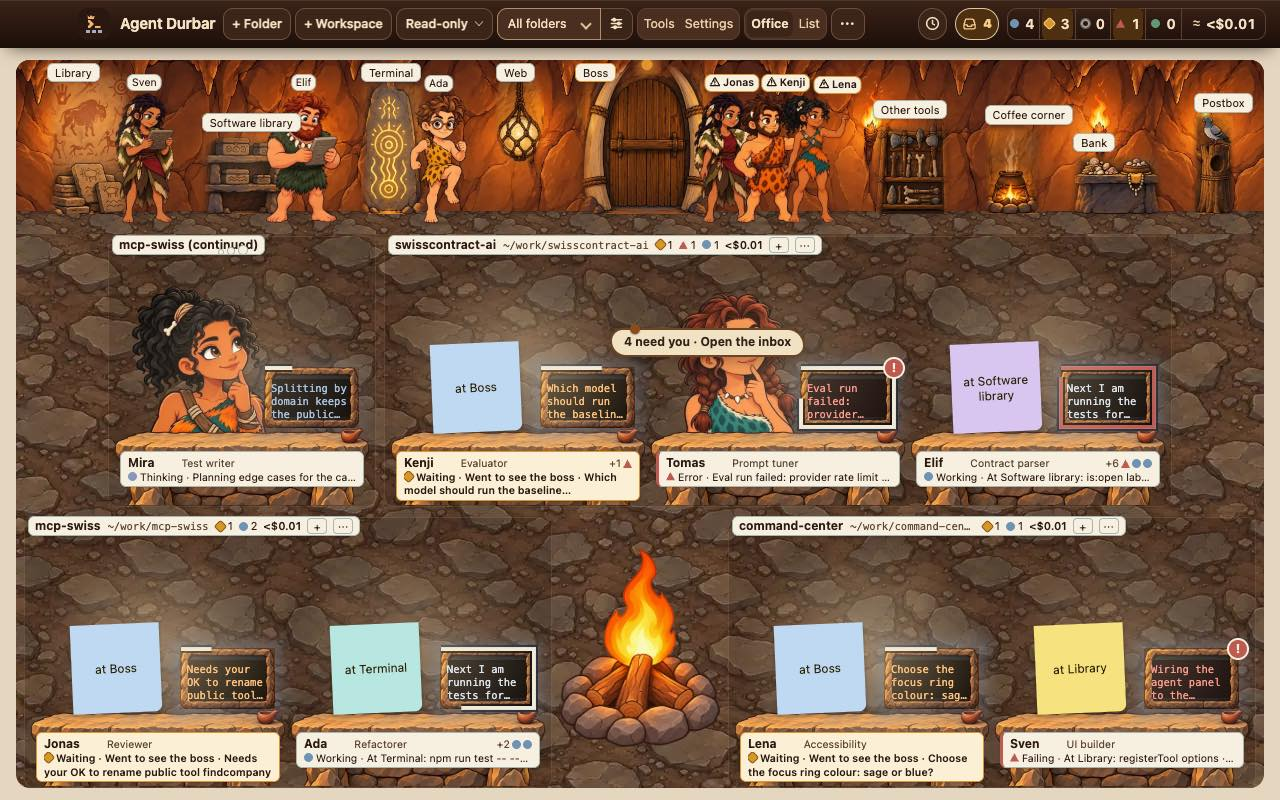
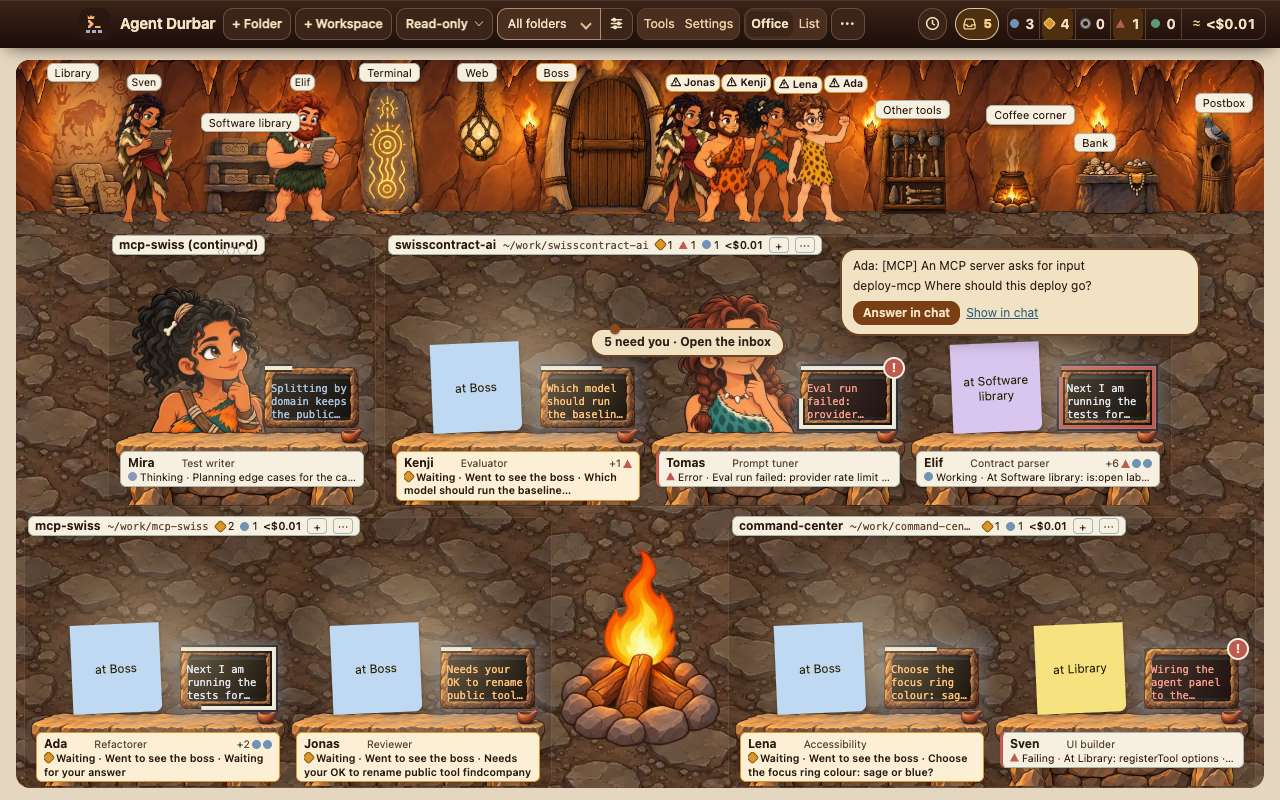
Cave circle: rooms sized from the folder's agents so a status change moves no seat; the focus check's original fixture restored; same-slots test and mutants; per-machine sign margin; signreach asserts the arrangement (T174, review findings on #1764)

diff --git a/scripts/test-realoffice-circle.ts b/scripts/test-realoffice-circle.ts
@@ -4,6 +4,7 @@ import * as assert from 'assert';
 import * as fs from 'fs';
 import * as path from 'path';
 import { realLayout, signMin, signShortMin, sortDesks, splitLounge, type RealMeta, type RealModel, type RealAgent, type RealState, type Rect, type Layout } from '../src/shared/realoffice-layout';
+import { CHIP_KINDS } from '../src/shared/realoffice-layout';
 import { ARRANGEMENTS, FACE_FLOOR, arrangementFits, circleLayout, circleWith, layoutFor, layoutWithFallback, isArrangement, monitorProblem, CIRCLE_FOCUS_MIN } from '../src/shared/realoffice-arrangements';
 
 process.exitCode = 1;
@@ -76,9 +77,9 @@ for (const [W, H] of SIZES) for (const f of [1, 4, 15]) for (const lounge of [0,
   cases++;
 }
 // ---- 15 agents fit both rooms with no scroll, at 24 px or more, in 1..13 folders; 14 and 15 folders [KNOWN GAP] (FR-229): pinned, so a change shows ----
-const GAP = [[12, 13, 14, 15], [10, 11, 12, 13, 14, 15]]; /* the folder counts that scroll at 24.0 px with every sign three counts wide (SIGNS): 1440x900, 1280x800 (spec 102 FR-231: a room is as wide as its sign's short form; with one count each it is [15] and [14, 15], as before) */
+const GAP = [[15], [14, 15]]; /* the folder counts that scroll at 24.0 px: 1440x900, 1280x800 (spec 102 Changes 2026-11-14) */
 ROOMS.forEach((s) => { for (let f = 1; f <= 15; f++) assert.strictEqual(mk(15, f, SIZES[s][0], SIZES[s][1]).scroll, GAP[s].includes(f), `15 agents in ${f} folders at ${NAMES[s]}: scroll must be ${GAP[s].includes(f)} (the known gap lists ${GAP[s]})`); });
-for (const s of ROOMS) for (let f = 1; f <= 15 - GAP[s].length; f++) {
+for (const s of ROOMS) for (let f = 1; f <= 13; f++) {
   const [W, H] = SIZES[s], L = mk(15, f, W, H);
   assert.ok(!L.scroll, `15 agents fit ${NAMES[s]} (${f} folders): no scroll`);
   assert.ok(L.faceH >= FACE_FLOOR, `15 agents at ${NAMES[s]}: face ${L.faceH} px, floor ${FACE_FLOOR}`);
@@ -148,47 +149,69 @@ function circleOffenders(manifests: Array<{ file: string; text: string }>): stri
   assert.ok(!names('{"arrangement":"rows"}') && !names('{}'), 'rows and no key are not circle');
   assert.throws(() => names('{"arrangement": circle}', 'worlds/x/world.json'), /worlds\/x\/world\.json is not valid JSON/, 'a manifest that does not parse fails by its path');
 }
-// ---- FR-231 (reviewer's finding on #1764): a sign in the circle is never narrower than its short form (`signShortMin`), and it lies inside its room. Labels: signw, signin, signshort. ----
-const signProblems = (L: Layout, counts: number): string[] => {
+// ---- FR-231 (reviewer's finding on #1764): a sign in the circle is never narrower than its short form for the most chips its folder can show, and it lies inside its room. Labels: signw, signin, signshort. ----
+/** the chips a folder can ever show: one per agent, at most CHIP_KINDS; `counts` is what the sign shows now (chips and cost), never more than that */
+const needOf = (m: RealModel, id: string, counts: number): number => signShortMin(Math.min(counts, (m.folders.find((f) => f.id === id) || { agents: [] }).agents.length, CHIP_KINDS));
+const signProblems = (L: Layout, m: RealModel, counts: number): string[] => {
   const out = new Set<string>();
   for (const z of L.zones) {
-    if (z.sign.w < signShortMin(counts) - 0.01) out.add('signw'); /* narrower than the least that keeps + and the menu inside it */
+    if (z.sign.w < needOf(m, z.id, counts) - 0.01) out.add('signw'); /* narrower than the least that keeps + and the menu inside it */
+    if (z.box.w - 8 < signShortMin(Math.min(CHIP_KINDS, (m.folders.find((f) => f.id === z.id) || { agents: [] }).agents.length)) - 0.01) out.add('signroom'); /* the room is smaller than the worst case the folder can have */
     if (!inside(z.sign, { x: z.box.x, y: z.box.y - 2, w: z.box.w, h: z.box.h + 2 })) out.add('signin'); /* the sign sticks out of its room: a neighbour or the focus box could cover it */
     if ((z.box.w - 8 >= signMin(counts)) === !!z.signShort) out.add('signshort'); /* the whole sign where its room holds signMin, the short form only where it does not */
   }
   return [...out];
 };
+const META_CAVE = { ...readJson('worlds', 'cave', 'world.json'), ...readJson('sets', 'prehistoric', 'set.json') } as unknown as RealMeta;
+const signsOf = (f: number, counts: number, chips?: number): Record<string, { name: string; path: string; counts: number; chips?: number }> => Object.fromEntries(Array.from({ length: f }, (_, i) => ['f' + i, { name: 'project-' + i, path: '~/work/long/path/to/project-' + i, counts, ...(chips === undefined ? {} : { chips }) }]));
 {
-  const META_CAVE = { ...readJson('worlds', 'cave', 'world.json'), ...readJson('sets', 'prehistoric', 'set.json') } as unknown as RealMeta;
   let n = 0;
-  for (const [wn, meta] of [['Photo', META], ['Cave', META_CAVE]] as Array<[string, RealMeta]>) for (const [W, H] of SIZES.slice(0, 2)) for (const agents of [4, 8, 15]) for (const f of [1, 2, 3, 4, 5, 6, 8, 9, 10, 11, 12, 13, 14, 15]) for (const counts of [1, 2, 3]) {
+  for (const [wn, meta] of [['Photo', META], ['Cave', META_CAVE]] as Array<[string, RealMeta]>) for (const [W, H] of SIZES.slice(0, 2)) for (const agents of [4, 8, 15]) for (const f of [1, 2, 3, 4, 5, 6, 8, 9, 10, 11, 12, 13, 14, 15]) for (const counts of [1, 2, 3, 6]) {
     if (f > agents) continue;
-    const m = model(agents, f), sg = Object.fromEntries(Array.from({ length: f }, (_, i) => ['f' + i, { name: 'project-' + i, path: '~/work/long/path/to/project-' + i, counts }]));
-    const L = circleLayout(m, { w: W, h: H }, meta, sg), r = layoutWithFallback('circle', m, { w: W, h: H }, meta, sg);
-    if (r.ran === 'circle') { assert.deepStrictEqual(signProblems(r.lay, counts), [], `${wn} ${agents} agents in ${f} folders, ${counts} counts at ${W}x${H}: every sign holds its short form and lies in its room`); n++; }
-    else assert.ok(L.scroll || !arrangementFits('circle', m, { w: W, h: H }, meta, undefined, sg), `${wn} ${agents} in ${f}, ${counts} counts at ${W}x${H}: rows only where the circle cannot hold its signs`);
-    assert.strictEqual(r.ran === 'circle', !L.scroll, `${wn} ${agents} in ${f}, ${counts} counts at ${W}x${H}: the ladder keeps the circle exactly where it does not scroll`);
+    const m = model(agents, f), r = layoutWithFallback('circle', m, { w: W, h: H }, meta, signsOf(f, counts));
+    if (r.ran === 'circle') { assert.deepStrictEqual(signProblems(r.lay, m, counts), [], `${wn} ${agents} agents in ${f} folders, ${counts} counts at ${W}x${H}: every sign holds its short form and lies in a room made for it`); n++; }
+    assert.strictEqual(r.ran === 'circle', !circleLayout(m, { w: W, h: H }, meta, signsOf(f, counts)).scroll, `${wn} ${agents} in ${f}, ${counts} counts at ${W}x${H}: the ladder keeps the circle exactly where it does not scroll`);
   }
   assert.ok(n > 50, `the sign check ran on ${n} circle layouts`);
-  const m = model(15, 9), sg = SIGNS(9), L = circleLayout(m, { w: 1440, h: 797 }, META_CAVE, sg);
-  assert.deepStrictEqual(signProblems(L, 3), [], 'the layout the sign mutants damage is clean');
-  const kill = (label: string, mut: (x: Layout) => void): void => { const x = clone(L); mut(x); assert.ok(signProblems(x, 3).includes(label), `sign mutant not killed at label "${label}"`); };
+  const m = model(15, 9), L = circleLayout(m, { w: 1440, h: 797 }, META_CAVE, signsOf(9, 3));
+  assert.deepStrictEqual(signProblems(L, m, 3), [], 'the layout the sign mutants damage is clean');
+  const kill = (label: string, mut: (x: Layout) => void): void => { const x = clone(L); mut(x); assert.ok(signProblems(x, m, 3).includes(label), `sign mutant not killed at label "${label}"`); };
   kill('signw', (x) => { x.zones[1].sign.w = 118; }); /* the 118 px sign of the review: its + and menu fall outside it */
+  kill('signroom', (x) => { x.zones[1].box.w = 100; x.zones[1].sign.w = 92; }); /* a room as wide as one desk, the cause */
   kill('signin', (x) => { x.zones[1].sign.x = x.zones[1].box.x + x.zones[1].box.w - 20; });
   kill('signshort', (x) => { x.zones[1].signShort = !x.zones[1].signShort; });
-  // `chips`: the count chips alone (the short form hides the cost), so a sign with a cost needs one chip less room than its `counts` say; the rooms follow `chips` where it is given
-  {
-    const view = { w: 1280, h: 697 };
-    const withChips = (f: number, chips?: number) => Object.fromEntries(Array.from({ length: f }, (_, i) => ['f' + i, { name: 'project-' + i, path: '~/work/long/path/to/project-' + i, counts: 3, ...(chips === undefined ? {} : { chips }) }]));
-    const edge = (chips?: number): number => { let f = 1; while (f <= 15 && !circleLayout(model(15, f), view, META_CAVE, withChips(f, chips)).scroll) f++; return f; };
-    assert.ok(edge(2) > edge(), `chips 2 of counts 3 (a cost): the circle holds more folders (${edge(2)} against ${edge()}) at 1280x800`);
-    const L2 = circleLayout(model(15, 4), view, META_CAVE, withChips(4, 2));
-    assert.deepStrictEqual(signProblems(L2, 2), [], 'with chips 2 every sign holds the short form of two chips');
+  console.log(`circle signs checked on ${n} circle layouts`);
+}
+// ---- 097 FR-015, 102 FR-230: a status change moves no seat. The same agents in any state (so any chips and cost on the signs) give the same slots, rooms, `u` and arrangement. Labels: moved. ----
+const layoutKey = (L: Layout, ran: string): string => JSON.stringify({ ran, u: L.u, scroll: L.scroll, z: L.zones.map((z) => [z.id, z.part, z.box, z.desks.map((d) => d.slot)]), focus: L.focus || null });
+const STATE_SETS: RealState[][] = [['working'], ['thinking', 'waiting'], ['error', 'limit', 'done', 'idle', 'asleep'], STATES];
+const movedBy = (meta: RealMeta, W: number, H: number, agents: number, f: number, opt?: { liveChips: boolean }): string[] => {
+  const keys = new Set<string>();
+  STATE_SETS.forEach((set, k) => {
+    const m = model(agents, f);
+    m.folders.forEach((fo) => fo.agents.forEach((a, i) => { if (!a.lounge) a.state = set[(i + k) % set.length]; }));
+    const chips = Math.min(set.length, 5), counts = chips + (k % 2); /* what the signs would show for this set: the chips, and a cost on every other set */
+    const sg = signsOf(f, counts, chips), v = { w: W, h: H };
+    const L = opt ? circleWith(m, v, meta, sg, opt) : circleLayout(m, v, meta, sg), ran = opt ? (L.scroll ? 'rows' : 'circle') : layoutWithFallback('circle', m, v, meta, sg).ran;
+    keys.add(layoutKey(L, ran));
+  });
+  return keys.size > 1 ? ['moved'] : [];
+};
+{
+  let n = 0, mutantMoved = 0;
+  for (const [, meta] of [['Photo', META], ['Cave', META_CAVE]] as Array<[string, RealMeta]>) for (const [W, H] of SIZES.slice(0, 2)) for (const agents of [4, 8, 15, 20]) for (const f of [1, 2, 3, 4, 5, 8, 12, 15]) {
+    if (f > agents) continue;
+    assert.deepStrictEqual(movedBy(meta, W, H, agents, f), [], `${agents} agents in ${f} folders at ${W}x${H}: a status change moves no seat, room, u or arrangement`);
+    n++;
+    if (movedBy(meta, W, H, agents, f, { liveChips: true }).length) mutantMoved++;
   }
-  // the cause (mutant of the engine): zones as wide as their desks only, the circle before FR-231, cuts a sign below its short form
-  const sw = (x: Layout): number => Math.min(...x.zones.map((z) => z.sign.w));
-  assert.ok(sw(L) >= signShortMin(3), 'with the rooms the smallest sign is whole');
-  console.log(`circle signs: smallest sign ${sw(L).toFixed(0)} px at 15 agents in 9 folders at 1440x900 (short form needs ${signShortMin(3)} px)`);
+  assert.ok(mutantMoved > 0, `mutant (rooms from the live chips) is caught by the moved label in ${mutantMoved} of ${n} cases`);
+  console.log(`status changes: no seat moves in ${n} cases; the live-chips mutant moves seats in ${mutantMoved}`);
+}
+// ---- the simulator's 15-agent frame (4, 4, 3, 2 and 2 agents in five folders, two of them in the lounge row): the Cave draws the circle at 1440x900 and ROWS at 1280x800, with every sign at one chip too: the folders' rooms (4, 4, 3, 2 and 2 chips at most) leave the ring no room at the 24 px face floor there (reviewer, #1764) ----
+{
+  const sim = (): RealModel => { let i = 0; const fo = [[4, [0]], [4, []], [3, []], [2, []], [2, [1]]].map(([c, lg], k) => ({ id: 'f' + k, agents: Array.from({ length: c as number }, (_, j) => { const lounge = (lg as number[]).includes(j), a: RealAgent = { id: 'a' + i, state: lounge ? 'idle' : STATES[i % STATES.length], person: PEOPLE[i % 15], away: null, ...(lounge ? { lounge: true } : {}) }; i++; return a; }) })); return { folders: fo, places: model(15, 5).places }; };
+  for (const [W, H, want] of [[1440, 797, 'circle'], [1280, 697, 'rows']] as Array<[number, number, string]>) for (const counts of [1, 2, 5]) assert.strictEqual(layoutWithFallback('circle', sim(), { w: W, h: H }, META_CAVE, signsOf(5, counts)).ran, want, `the simulator's 15-agent frame in the Cave at ${W}x${H}, ${counts} counts: ${want}`);
 }
 // ---- the ladder circle -> rows (FR-230, owner 2026-11-14 13:10 UTC): 15 agents in 14 and in 15 one-agent folders fall back to rows, no scroll, nothing off the stage ----
 {
@@ -205,27 +228,24 @@ const signProblems = (L: Layout, counts: number): string[] => {
   };
   const seen: string[] = [];
   for (const [name, meta] of [['Photo meta', META], ['Cave meta', META_CAVE]] as Array<[string, RealMeta]>) SIZES.slice(0, 2).forEach(([W, H], s) => {
-    for (const f of [1, 4, 8, 9, 10, 11, 12, 13, 14, 15]) {
-      const m = model(15, f), v = { w: W, h: H }, fits = arrangementFits('circle', m, v, meta, undefined, SIGNS(f));
+    for (const f of [1, 4, 8, 12, 13, 14, 15]) {
+      const m = model(15, f), v = { w: W, h: H }, fits = arrangementFits('circle', m, v, meta);
       const r = layoutWithFallback('circle', m, v, meta, SIGNS(f));
       assert.deepStrictEqual(ladder(r, W, fits), [], `${name} ${NAMES[s]}, 15 agents in ${f} folders: ladder ${fits ? 'keeps circle' : 'falls back to rows'}, no scroll, nothing off the stage`);
       assert.strictEqual(fits, !circleLayout(m, v, meta, SIGNS(f)).scroll, `${name} ${NAMES[s]} ${f} folders: fits means the circle does not scroll`);
-      if (f >= 9) seen.push(`${name} ${NAMES[s]} ${f}: ${r.ran}`);
+      if (f >= 14) seen.push(`${name} ${NAMES[s]} ${f}: ${r.ran}`);
       if (!fits) {
         assert.ok(ladder({ lay: circleLayout(m, v, meta, SIGNS(f)), ran: 'circle' }, W, fits).includes('scroll'), `mutant (ladder removed): the circle's scroll is caught at ${name} ${NAMES[s]} ${f} folders`);
         assert.ok(ladder({ lay: realLayout(m, v, meta, SIGNS(f)), ran: 'circle' }, W, fits).includes('ran'), `mutant (circle forced): caught by its ran label at ${name} ${NAMES[s]} ${f} folders`);
       } else assert.ok(ladder({ lay: realLayout(m, v, meta, SIGNS(f)), ran: 'rows' }, W, fits).includes('ran'), `mutant (rows always): caught by its ran label at ${name} ${NAMES[s]} ${f} folders`);
     }
   });
-  const want: string[] = [];
-  for (const [name, edge] of [['Photo meta', [12, 10]], ['Cave meta', [14, 10]]] as Array<[string, number[]]>) edge.forEach((e, s) => { for (let f = 9; f <= 15; f++) want.push(`${name} ${NAMES[s]} ${f}: ${f >= e ? 'rows' : 'circle'}`); });
-  for (const w of want) assert.ok(seen.includes(w), `the measured edge (FR-231, every sign three counts wide): ${w}`); /* the signs' rooms move the edge: Photo's meta from 15 folders to 12 (1440x900), the Cave's from 15 to 14; both from 14 to 10 at 1280x800 */
-  assert.strictEqual(seen.length, want.length, 'no other folder count was measured');
-  console.log('ladder at 9..15 folders (every sign three counts wide): ' + seen.join('; '));
+  for (const want of ['Photo meta 1440x900 15: rows', 'Photo meta 1440x900 14: circle', 'Cave meta 1280x800 14: rows', 'Cave meta 1280x800 15: rows', 'Cave meta 1440x900 14: circle', 'Cave meta 1440x900 15: circle']) assert.ok(seen.includes(want), `the measured edge: ${want}`); /* Photo's meta scrolls at 15 folders at 1440x900, the Cave's does not (its desk is smaller); both fall back at 14 and 15 at 1280x800 */
+  console.log('ladder at 14 and 15 folders: ' + seen.join('; '));
   // the hold: back only with two agents fewer than it left at
-  const m15 = model(15, 14), m14 = model(14, 4), m13 = model(13, 4), v = { w: 1280, h: 697 };
-  assert.strictEqual(layoutWithFallback('circle', m13, v, META_CAVE, SIGNS(4), 15).ran, 'circle', 'left at 15, back at 13: two fewer');
-  assert.strictEqual(layoutWithFallback('circle', m14, v, META_CAVE, SIGNS(4), 15).ran, 'rows', 'left at 15, still rows at 14: one fewer is not enough');
+  const m15 = model(15, 14), m14 = model(14, 14), m13 = model(13, 13), v = { w: 1280, h: 697 };
+  assert.strictEqual(layoutWithFallback('circle', m13, v, META_CAVE, SIGNS(13), 15).ran, 'circle', 'left at 15, back at 13: two fewer');
+  assert.strictEqual(layoutWithFallback('circle', m14, v, META_CAVE, SIGNS(14), 15).ran, 'rows', 'left at 15, still rows at 14: one fewer is not enough');
   assert.strictEqual(layoutWithFallback('circle', m15, v, META_CAVE, SIGNS(15), undefined).ran, 'rows', 'no hold: 15 agents in 14 folders is rows');
   assert.strictEqual(JSON.stringify(layoutWithFallback('rows', m15, v, META_CAVE, SIGNS(14)).lay), JSON.stringify(realLayout(m15, v, META_CAVE, SIGNS(14))), 'rows is untouched by the ladder');
 }

diff --git a/scripts/check-102-focus.js b/scripts/check-102-focus.js
@@ -4,7 +4,7 @@
  *   npm run build
  *   OUT=/tmp DURBAR_USER_DATA=$(mktemp -d) DURBAR_SIM=15 DURBAR_SIM_FREEZE=1 DURBAR_DRIVER=$PWD/scripts/check-102-focus.js xvfb-run -a npx electron . --no-sandbox
  *
- * The fixture lives in the page only: the Photo office's numbers with `arrangement: "circle"` set after load (the Cave names circle and draws it from the start, so the page's fallback hold would carry a first frame's fall to rows into the check; spec 102 Changes 2026-11-15), and a plain
+ * 1280x800 takes 12 agents (15 agents are rows there, with no box, asserted last). The fixture lives in the page only: the Photo office's numbers with `arrangement: "circle"` set after load (no shipped world names circle yet; T174), and a plain
  * colour for a picture. At 15 agents, 1440x900 and 1280x800, asserted: with `rows` there is no .ro-focus (T167); with `circle` exactly one, aria-hidden, no tabindex,
  * no text, no pointer events, nothing tabbable inside it, inside the room, clear of every folder zone and sign; a picture that fails to load moves no desk; a layout
  * with no focus box (page-only: the engine's result without `focus`) renders without a throw, draws no .ro-focus and moves nothing; back to
@@ -25,21 +25,19 @@ module.exports = async (ctx) => {
       aria:f[0]?f[0].getAttribute('aria-hidden'):null,tab:f[0]?f[0].hasAttribute('tabindex'):null,text:f[0]?f[0].textContent:null,
       pe:f[0]?getComputedStyle(f[0]).pointerEvents:null,inner:f[0]?f[0].querySelectorAll('a,button,input,[tabindex]').length:null}})()`;
   const hit = (a, b) => a.x + 0.5 < b.x + b.w && b.x + 0.5 < a.x + a.w && a.y + 0.5 < b.y + b.h && b.y + 0.5 < a.y + a.h;
-  for (const [w, h] of [[1440, 900], [1280, 800]]) {
+  /* 1280x800 takes 12 agents: with 15 the circle needs more room than the floor has at the face floor (the simulator's 15-agent frame is rows there, spec 102 Changes 2026-11-15), so the ladder draws rows and no box; that case is asserted after the loop */
+  for (const [w, h, N] of [[1440, 900, 15], [1280, 800, 10]]) {
     const tag = `focus ${w}x${h}`;
-    await H.load({ w, h, ready: 'fit', focus: true, query: { officeview: 'real' } });
+    await H.load({ w, h, ready: 'fit', focus: true, query: { officeview: 'real', sim: String(N) } });
     const ids = await js(`window.__durbarSimUi.agents().filter(a=>!a.parent).map(a=>a.id)`);
-    assert.strictEqual(ids.length, 15, `${tag}: 15 main agents`);
-    /* a redraw changes no agent state, so no sign's counts: a status poke would add a state chip and, with it, change the room each sign needs (spec 102 Changes 2026-11-15) */
-    const redraw = async () => { await js(`window.__durbarSimUi.crew.renderAll();0`); };
-    /* one state for every agent, so each folder shows one count chip and every sign needs the least room: the circle sits at the face floor at 1280x800, and a sign with three or four chips takes the room it needs, which can make it draw rows (spec 102 Changes 2026-11-15); this check is about the focus box, so it holds the state still */
-    await js(`window.__durbarSimUi.agents().filter(a=>!a.parent).forEach(a=>{a.state='working'});window.__durbarSimUi.crew.renderAll();0`);
+    assert.strictEqual(ids.length, N, `${tag}: ${N} main agents`);
     const rows = await js(READ);
     assert.strictEqual(rows.world, 'photo', `${tag}: the fixture is the Photo world's numbers`);
     assert.strictEqual(rows.n, 0, `${tag}: with rows no .ro-focus is drawn (T167)`);
     // the fixture: circle, set in the page only, and drawn at the next status change
     await js(`(()=>{window.DurbarRealOfficeWorlds.photo.arrangement='circle';const s=document.createElement('style');s.id='fixFocus';s.textContent='.ro[data-world="photo"] .ro-focus{background-color:#b5651d}';document.head.appendChild(s);return 0})()`);
-    await redraw();
+    const poke = async (id, status) => { await js(`window.__durbarSimEmit({type:'status',sessionId:${jsLiteral(id)},timestamp:Date.now(),status:${jsLiteral(status)},intent:'x'});0`); };
+    await poke(ids[0], 'error'); await poke(ids[0], 'idle');
     assert.ok(await until(`document.querySelectorAll('#stage .ro-focus').length===1`, 8000), `${tag}: with circle one .ro-focus is drawn`);
     await settle();
     const c = await js(READ);
@@ -53,22 +51,17 @@ module.exports = async (ctx) => {
     assert.ok(c.box.x >= c.room.x - 1 && c.box.y >= c.room.y - 1 && c.box.x + c.box.w <= c.room.x + c.room.w + 1 && c.box.y + c.box.h <= c.room.y + c.room.h + 1, `${tag}: the focus box is inside the room`);
     const clash = c.zones.filter((z) => hit(c.box, z));
     assert.strictEqual(clash.length, 0, `${tag}: the focus box is clear of every zone and sign: ` + JSON.stringify(clash[0]));
-    assert.strictEqual(c.dr.length, 15, `${tag}: 15 plates are drawn`);
+    assert.strictEqual(c.dr.length, N, `${tag}: ${N} plates are drawn`);
     const cx = c.dr.map((d) => ({ x: d.x + d.w / 2, y: d.y + d.h / 2 })), b = c.box;
     assert.ok(cx.some((p) => p.x < b.x) && cx.some((p) => p.x > b.x + b.w) && cx.some((p) => p.y < b.y), `${tag}: the ring stands round the box: desks on its left, its right and above it`);
     // a picture that loads, and the same box with a picture that fails: every plate, zone, sign and the box itself is where it was (nothing in the layout reads the picture)
[1 lines of base64/hex data omitted]
     const setPic = (url) => js(`(()=>{document.getElementById('fixFocus').textContent='.ro[data-world="photo"] .ro-focus{background-image:url(${jsLiteral(url).slice(1, -1)})}';return new Promise(res=>{const i=new Image();i.onload=i.onerror=()=>res(1);i.src=${jsLiteral(url)}})})()`);
-    /* what the layout reads besides the picture: every agent's state and each sign's counts (a sign's room is as wide as its counts need: spec 102 Changes 2026-11-15), so two frames are only comparable when these are equal */
-    const INPUTS = `JSON.stringify({states:window.__durbarSimUi.agents().filter(a=>!a.parent).map(a=>a.state).join(','),signs:[...document.querySelectorAll('#stage .ro-sign')].map(g=>g.textContent.trim())})`;
-    const frame = async () => { await redraw(); await settle(); const r = await js(READ); return JSON.stringify({ dr: r.dr, zones: r.zones, box: r.box, desks: r.desks, inputs: await js(INPUTS) }); };
-    const inputsOf = (f) => JSON.parse(f).inputs;
-    assert.notStrictEqual(inputsOf(JSON.stringify({ inputs: '{"states":"a,b"}' })), inputsOf(JSON.stringify({ inputs: '{"states":"a,c"}' })), 'mutant: frames with different agent states have different inputs');
+    const frame = async (id) => { await poke(id, 'error'); await poke(id, 'idle'); await settle(); const r = await js(READ); return JSON.stringify({ dr: r.dr, zones: r.zones, box: r.box, desks: r.desks }); };
     await setPic(PIC);
-    const loaded = await frame();
+    const loaded = await frame(ids[2]);
     await setPic('realoffice/worlds/photo/no-such-focus.webp');
-    const failed = await frame();
-    assert.strictEqual(inputsOf(failed), inputsOf(loaded), `${tag}: the two frames read the same agent states and sign counts (what the layout depends on besides the picture)`);
+    const failed = await frame(ids[2]);
     assert.strictEqual(failed, loaded, `${tag}: a picture that fails to load moves no plate, zone, sign or the box itself`);
     assert.strictEqual((await js(READ)).n, 1, `${tag}: the box stays when its picture fails`);
     await js(`(()=>{document.getElementById('fixFocus').textContent='.ro[data-world="photo"] .ro-focus{background-color:#b5651d}';return 0})()`);
@@ -77,22 +70,33 @@ module.exports = async (ctx) => {
     // the render runs without a throw, draws no .ro-focus and moves no plate, zone or sign against the same layout with the box
     await js(`(()=>{const E=window.exports,f=window.__fixLF||E.layoutFor,g=window.__fixLW||E.layoutWithFallback;window.__fixLF=f;window.__fixLW=g;E.layoutFor=function(){const l=f.apply(this,arguments);delete l.focus;return l};E.layoutWithFallback=function(){const r=g.apply(this,arguments);delete r.lay.focus;return r}; /* the circle goes through the ladder (T174): the fixture removes the box from either seam */
       const R=window.DurbarRealOffice,r=window.__fixRender||R.render;window.__fixRender=r;window.__roN=0;window.__roErr='';R.render=function(){try{const l=r.apply(this,arguments);window.__roN++;return l}catch(e){window.__roErr=String(e&&e.message||e);throw e}};return 0})()`);
-    const noBox = JSON.parse(await frame());
+    const noBox = JSON.parse(await frame(ids[2]));
     assert.ok(await js(`window.__roN>0||window.__roErr!==''`), `${tag}: the office re-rendered with no focus box`);
     assert.strictEqual(await js(`window.__roErr`), '', `${tag}: a layout with no focus box renders without a throw`);
     assert.strictEqual((await js(READ)).n, 0, `${tag}: a layout with no focus box draws no .ro-focus`);
     const was = JSON.parse(loaded);
     assert.deepStrictEqual({ dr: noBox.dr, zones: noBox.zones, desks: noBox.desks }, { dr: was.dr, zones: was.zones, desks: was.desks }, `${tag}: a layout with no focus box moves no plate, zone or sign`);
     await js(`(()=>{window.exports.layoutFor=window.__fixLF;window.exports.layoutWithFallback=window.__fixLW;window.DurbarRealOffice.render=window.__fixRender;return 0})()`);
-    await redraw();
+    await poke(ids[2], 'error'); await poke(ids[2], 'idle');
     assert.ok(await until(`document.querySelectorAll('#stage .ro-focus').length===1`, 8000), `${tag}: with the box back one .ro-focus is drawn again`);
     await settle();
     await H.shot(path.join(OUT, `102-focus-${w}x${h}.png`), { prep: 'mouse', tag: '102' });
     console.log(`[102] ${tag}: focus box ${JSON.stringify(c.box)} in room ${JSON.stringify(c.room)}`);
     // back to rows: the box is gone
     await js(`(()=>{window.DurbarRealOfficeWorlds.photo.arrangement='rows';return 0})()`);
-    await redraw();
+    await poke(ids[1], 'error'); await poke(ids[1], 'idle');
     assert.ok(await until(`document.querySelectorAll('#stage .ro-focus').length===0`, 8000), `${tag}: back to rows the .ro-focus is removed`);
+  }
+  // 15 agents at 1280x800: the circle does not fit at the face floor, the ladder draws rows, so there is no focus box and nothing scrolls
+  {
+    await H.load({ w: 1280, h: 800, ready: 'fit', focus: true, query: { officeview: 'real' } });
+    await js(`(()=>{window.DurbarRealOfficeWorlds.photo.arrangement='circle';return 0})()`);
+    const ids = await js(`window.__durbarSimUi.agents().filter(a=>!a.parent).map(a=>a.id)`);
+    await js(`window.__durbarSimEmit({type:'status',sessionId:${jsLiteral(ids[0])},timestamp:Date.now(),status:'error',intent:'x'});0`);
+    await js(`window.__durbarSimEmit({type:'status',sessionId:${jsLiteral(ids[0])},timestamp:Date.now(),status:'idle',intent:'x'});0`);
+    assert.ok(await until(`document.querySelector('#stage .ro').dataset.arrangement==='rows'`, 8000), `focus 1280x800 with 15 agents: the ladder draws rows`);
+    assert.strictEqual((await js(READ)).n, 0, `focus 1280x800 with 15 agents: rows draw no focus box`);
+    assert.strictEqual(await js(`document.getElementById('stage').dataset.fit`), 'ok', `focus 1280x800 with 15 agents: the floor does not scroll`);
   }
   console.log('[102] focus PASS');
 };

diff --git a/src/shared/realoffice-arrangements.ts b/src/shared/realoffice-arrangements.ts
@@ -1,7 +1,7 @@
 /** Spec 102 FR-227, FR-256 (T202, T203, T205): where the people sit. `rows` is `realLayout`, untouched; `aisles` is the Retro arcade hall:
  *  staggered aisles of cabinets in an integer pixel scale `g`. Pure, no DOM, nothing draws it yet (RA3). The numbers marked "provisional"
  *  come from the mockup and the art by eye and are replaced by measured ones (T201's `faceBox`, T207's frame sizes). */
-import { lobbyBand, lobbyRange, loungeRows, realLayout, rowGeom, deskStation, shownDesks, signWidth, signMin, signShortMin, splitLounge, BIG_MAX, helpH, helpCols, helpShown, FACE_U, PW, SR, PAD, ZGAP, STRIP, U_MAX, type DeskBox, type Layout, type RealAgent, type RealMeta, type RealModel, type RealState, type Rect, type ZoneBox } from './realoffice-layout';
+import { lobbyBand, lobbyRange, loungeRows, realLayout, rowGeom, deskStation, shownDesks, signWidth, signMin, signShortMin, CHIP_KINDS, splitLounge, BIG_MAX, helpH, helpCols, helpShown, FACE_U, PW, SR, PAD, ZGAP, STRIP, U_MAX, type DeskBox, type Layout, type RealAgent, type RealMeta, type RealModel, type RealState, type Rect, type ZoneBox } from './realoffice-layout';
 
 export const ARRANGEMENTS = ['rows', 'circle', 'aisles'] as const;
 export type Arrangement = (typeof ARRANGEMENTS)[number];
@@ -290,7 +290,7 @@ export function aislesLayout(model: RealModel, view: { w: number; h: number }, m
 export const CIRCLE_U_MIN = Math.ceil(FACE_FLOOR / FACE_U);
 export const CIRCLE_FOCUS_MIN = { w: 160, h: 120 } as const;
 /** `side`: the widest side, 1 or 2 desks (default 2: one desk wide does not hold 15 at 1280x800, measured in the Changes of 2026-11-13) */
-export interface CircleOpts { side?: 1 | 2 }
+export interface CircleOpts { side?: 1 | 2; /** test only: the room from the sign's LIVE chips (what #1764's first fix did): the mutant of 097 FR-015, which the same-slots test must kill */ liveChips?: boolean }
 interface CirclePlan { nl: number; nt: number; nr: number; wl: number; wr: number; colH: number }
 export function circleWith(model: RealModel, view: { w: number; h: number }, meta: RealMeta, signs: Record<string, { name: string; path: string; counts: number }> | undefined, opt: CircleOpts = {}): Layout {
   const W = Math.max(200, view.w), H0 = Math.max(200, view.h);
@@ -306,8 +306,11 @@ export function circleWith(model: RealModel, view: { w: number; h: number }, met
   const rowsOf = (i: number, j: number, w: number): number => runs(i, j).reduce((s, [p, q]) => s + Math.ceil((q - p) / w), 0);
   const sideH = (i: number, j: number, w: number, b: number): number => (j > i ? rowsOf(i, j, w) * b + (runs(i, j).length - 1) * ZGAP : 0);
   const zonesIn = (i: number, j: number): number => (j > i ? seats[j - 1].fx - seats[i].fx + 1 : 0);
-  /** the least width a folder's room may have so its sign keeps its + and menu (FR-231): the short sign's measured width (`signShortMin`) */
-  const needW = (fx: number): number => { const f = folders[fx], s = signs && Object.prototype.hasOwnProperty.call(signs, f.id) ? signs[f.id] : { counts: 1 }; return signShortMin((s as { chips?: number }).chips ?? s.counts) + 8; }; /* `chips`: the count chips alone (the short form hides the cost); `counts` (chips and cost) when the caller gives no `chips`, which is never too narrow */
+  /** the least width a folder's room may have so its sign keeps its + and menu (FR-231): the short sign's measured width (`signShortMin`) for the MOST chips the folder can ever show, one per agent up to `CHIP_KINDS`: from the agents, never from the states, so a status change moves no seat (097 FR-015, 102 FR-230) */
+  const needW = (fx: number): number => {
+    const f = folders[fx], all = model.folders.find((x) => x.id === f.id), s = signs && Object.prototype.hasOwnProperty.call(signs, f.id) ? (signs[f.id] as { chips?: number }) : undefined;
+    return signShortMin(opt.liveChips && s && s.chips !== undefined ? s.chips : Math.min(all ? all.agents.length : f.agents.length, CHIP_KINDS)) + 8;
+  };
   /** a zone of `c` desk columns holding folder `fx`, at desk width `Sw`: the desks' width, or the sign's if that is wider */
   const zoneW = (fx: number, c: number, Sw: number): number => Math.max(c * Sw + 8, needW(fx));
   /** the width of the top row over seats [i, j): its zones and the gaps between them; `sideBw` the width of a side over [i, j), `w` desks wide: the widest of its zones, never under the desks' */
@@ -407,11 +410,11 @@ export function circleWith(model: RealModel, view: { w: number; h: number }, met
 export const circleLayout = (model: RealModel, view: { w: number; h: number }, meta: RealMeta, signs?: Record<string, { name: string; path: string; counts: number }>): Layout => circleWith(model, view, meta, signs);
 
 /** FR-230: whether `id` fits this floor, on the count of agents only; `leftAt` (the count it last fell back at) makes it return only with two agents fewer, so a seat count at the edge does not flip the room. `rows` always fits. Pure. */
-export function arrangementFits(id: Arrangement, model: RealModel, view: { w: number; h: number }, meta: RealMeta, leftAt?: number, signs?: Record<string, { name: string; path: string; counts: number }>): boolean {
+export function arrangementFits(id: Arrangement, model: RealModel, view: { w: number; h: number }, meta: RealMeta, leftAt?: number): boolean {
   if (id === 'rows') return true;
   const n = model.folders.reduce((s, f) => s + f.agents.length, 0);
   if (leftAt !== undefined && n > leftAt - 2) return false;
-  return !layoutFor(id, model, view, meta, signs).scroll; /* with the signs: a ring whose signs the rooms cannot hold whole (FR-231) does not fit */
+  return !layoutFor(id, model, view, meta).scroll;
 }
 
 /** FR-228's one seam: the arrangement a world names picks the function. `rows` is `realLayout` and nothing else (T167: byte-identical). */
@@ -422,7 +425,7 @@ export function layoutFor(arrangement: Arrangement, model: RealModel, view: { w:
 /** FR-230 (owner, 2026-11-14 13:10 UTC): the ladder `circle` to `rows`. A `circle` that does not fit this floor at the face floor (`arrangementFits`; `leftAt` holds it off until two agents fewer) draws `rows`, so no floor scrolls
  *  with 15 agents because of the arrangement; every other id runs as `layoutFor` says. `ran` is the arrangement that drew. Pure. */
 export function layoutWithFallback(arrangement: Arrangement, model: RealModel, view: { w: number; h: number }, meta: RealMeta, signs?: Record<string, { name: string; path: string; counts: number }>, leftAt?: number): { lay: Layout; ran: Arrangement } {
-  if (arrangement === 'circle' && !arrangementFits('circle', model, view, meta, leftAt, signs)) return { lay: realLayout(model, view, meta, signs), ran: 'rows' };
+  if (arrangement === 'circle' && !arrangementFits('circle', model, view, meta, leftAt)) return { lay: realLayout(model, view, meta, signs), ran: 'rows' };
   return { lay: layoutFor(arrangement, model, view, meta, signs), ran: arrangement };
 }
 

diff --git a/src/shared/realoffice-layout.ts b/src/shared/realoffice-layout.ts
@@ -443,9 +443,12 @@ export const signWidth = (name: string, path: string, counts: number, zw: number
 /** FR-356 (bug #1392): the narrowest whole sign: its name cut to 3 letters, no path, the counts, the cost (`counts` counts it, as `signWidth`), + and menu. Measured 183 px with two
  *  counts and a cost (the cave at 1280x800, 2026-11-09), plus 7 px for a wider font (#1079). A room narrower than this takes the short sign (FR-256's: no cost, no path). */
 export const signMin = (counts: number): number => 100 + 30 * counts;
-/** Spec 102 FR-231 (reviewer's finding on #1764): the narrowest sign that keeps its + and folder-actions buttons inside it and reachable: the short form (name cut to 3 letters, count chips, + and menu). Measured: with
- *  `chips` count chips (not the cost, which the short form hides) the buttons are clipped below 132 px with two, 156 with three, 178 with four (the Cave at 1440x900, swept in the simulator); 93 + 24 per chip, 7 px of it for a wider font as `signMin`. A room never gives a sign less. */
-export const signShortMin = (chips: number): number => 93 + 24 * chips;
+/** Spec 102 FR-231 (reviewer's finding on #1764): the narrowest sign that keeps its + and folder-actions buttons inside it and reachable: the short form (name cut to 3 letters, count chips, + and menu; the cost is hidden).
+ *  Mac measurement, a sweep of the real `.ro-sign.short` in the simulator: clipped below 132 / 156 / 178 px with 2 / 3 / 4 chips. The reviewer's sweep on Linux (not measured here): 135 / 160 / 185 px. Windows: not measured.
+ *  100 + 25 per chip is 150 / 175 / 200 px: 15 px above the Linux numbers at 2 to 4 chips (and 15 px at 5), so it holds on both with room for a wider font (`signMin` allows 7 px). A room never gives a sign less. */
+export const signShortMin = (chips: number): number => 100 + 25 * chips;
+/** the kinds of count chip a folder's sign can show (waiting, error, working, done, idle: the app's `counts`): a folder shows at most this many, and at most one per agent */
+export const CHIP_KINDS = 5;
 
 /** FR-019: the whole office: pure, no DOM. `signs` gives each folder's sign text lengths (name, path, number of count chips). */
 export function realLayout(model: RealModel, viewport: { w: number; h: number }, meta: RealMeta, signs?: Record<string, { name: string; path: string; counts: number }>): Layout {

diff --git a/scripts/shots-097-moments.js b/scripts/shots-097-moments.js
@@ -272,6 +272,9 @@ module.exports = async (ctx) => {
       const READ = `(()=>{const R=e=>e.getBoundingClientRect(),out=[];for(const g of document.querySelectorAll('#stage .ro-sign:not(.ro-stag)')){const q=R(g);for(const b of g.querySelectorAll('[data-newsess],[data-foldermenu]')){const r=R(b),e=document.elementFromPoint(r.left+r.width/2,r.top+r.height/2);out.push({sign:g.textContent.trim().slice(0,14),w:Math.round(q.width),ok:r.width>0&&r.left>=q.left-0.5&&r.right<=q.right+0.5&&r.top>=q.top-0.5&&r.bottom<=q.bottom+0.5&&!!e&&(e===b||b.contains(e))})}}return out})()`;
       for (const n of ['15', '8']) {
         await H.load({ w, h, query: q(world, { sim: n }), ready: REAL, settle: true });
+        /* what is drawn matters: the Cave's 15-agent frame at 1280x800 is rows (its folders' rooms leave the ring no room at the face floor, spec 102 Changes 2026-11-15), so a check of its signs there is a check of rows; every other Cave case is the circle, the Photo office is rows */
+        const arr = await js(`document.querySelector('#stage .ro').dataset.arrangement`), want = world === 'cave' && !(n === '15' && w === 1280) ? 'circle' : 'rows';
+        assert.strictEqual(arr, want, `${tag}: ${n} agents: the arrangement drawn is ${want}`);
         const rd = await js(READ);
         assert.ok(rd.length >= 2, `${tag}: ${n} agents: the signs' buttons were found (${rd.length})`);
         assert.deepStrictEqual(rd.filter((b) => !b.ok), [], `${tag}: ${n} agents: every sign's + and folder-actions buttons are inside the sign and reachable (elementFromPoint), none clipped`);

diff --git a/src/renderer/realoffice.js b/src/renderer/realoffice.js
@@ -337,7 +337,7 @@
       places: model.places.map((p) => ({ id: p.id, custom: !!p.custom, visitors: p.visitors.map((v) => ({ id: v.id, needsYou: !!v.needsYou, person: who[v.id] || null })) })),
     };
     const signs = {};
-    for (const f of model.folders) signs[f.id] = { name: f.name, path: f.path, counts: f.counts.length + (f.cost ? 1 : 0), chips: f.counts.length }; /* chips: what the short sign keeps (spec 102 FR-231) */
+    for (const f of model.folders) signs[f.id] = { name: f.name, path: f.path, counts: f.counts.length + (f.cost ? 1 : 0) };
     /* spec 102 FR-228: the one seam; FR-230 (owner, 2026-11-14 13:10 UTC): a circle that does not fit at the face floor draws rows, and comes back only with two agents fewer than it left at (kept per world, window size and folder list, so another floor does not inherit it) */
     const arr = meta.arrangement && meta.arrangement !== 'rows' && L.layoutFor ? meta.arrangement : 'rows';
     let lay, ran = arr;
